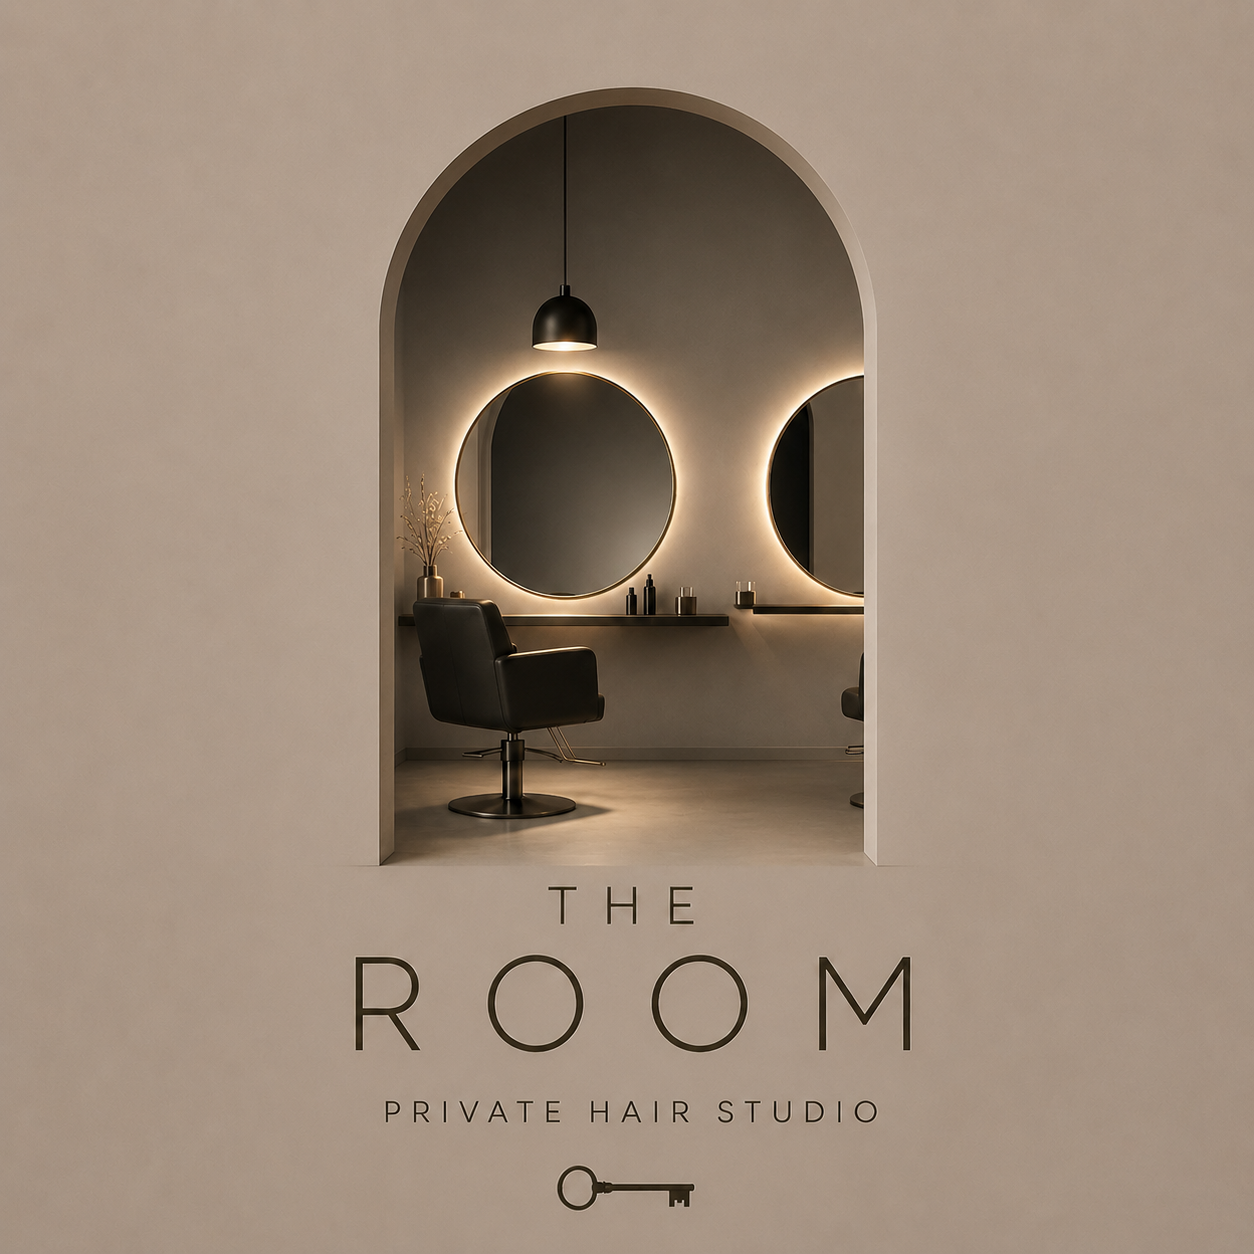
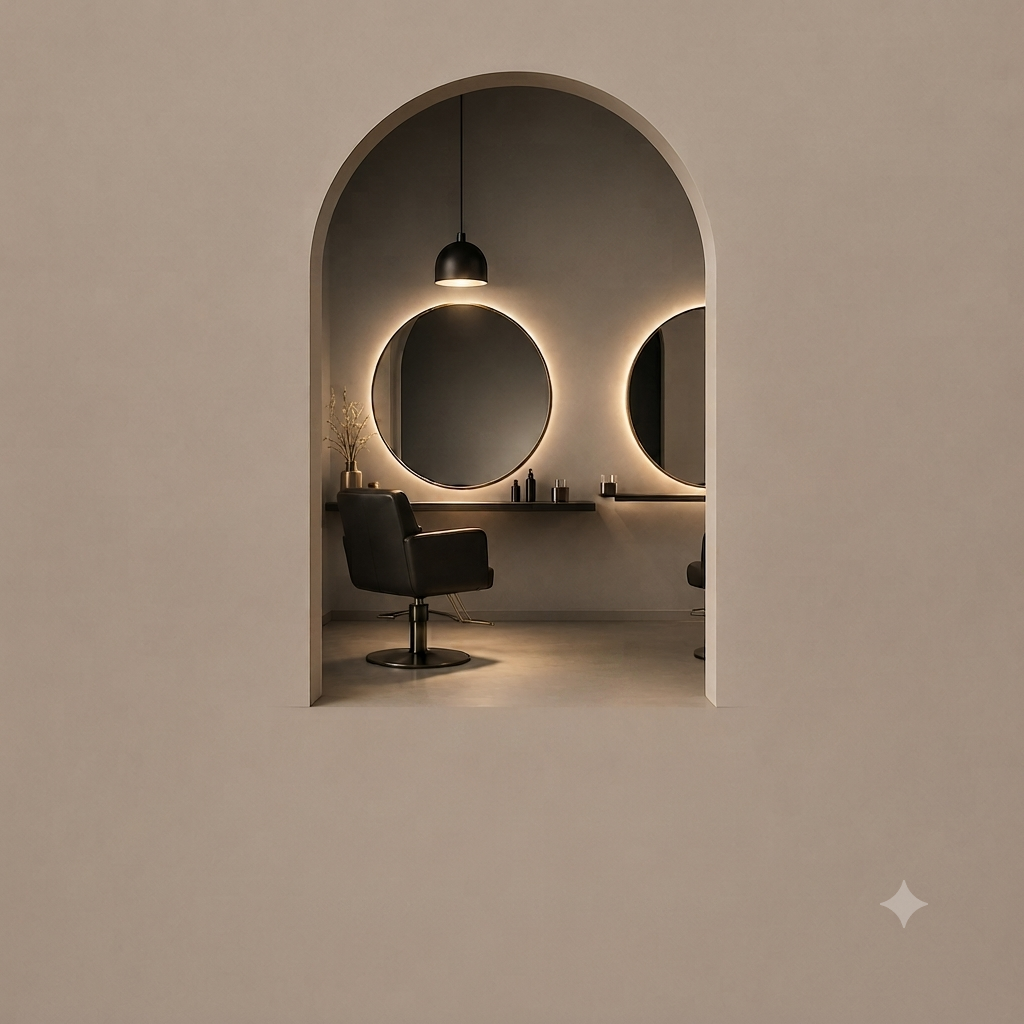
Implement booking pagination and toggle for viewing all bookings in dashboard

diff --git a/src/routes/_authenticated/dashboard.tsx b/src/routes/_authenticated/dashboard.tsx
@@ -19,6 +19,9 @@ function DashboardPage() {
 	const [bookings, setBookings] = useState<
 		{ id: string; date: string; status: string }[]
 	>([]);
+	const [showAllBookings, setShowAllBookings] = useState(false);
+	const [bookingsPage, setBookingsPage] = useState(1);
+	const bookingsPerPage = 5;
 	const [hasQuestionnaire, setHasQuestionnaire] = useState<boolean | null>(
 		null,
 	);
@@ -133,7 +136,7 @@ function DashboardPage() {
 					) : (
 						<Link
 							to="/book"
-							className="inline-flex h-14 items-center justify-center border border-foreground/80 bg-foreground px-12 text-[0.6rem] tracking-[0.6em] uppercase text-background transition hover:bg-transparent hover:text-foreground"
+							className="inline-flex h-14 items-center justify-center border-2 border-[color:var(--gold)] bg-[color:var(--gold)] px-12 text-[0.6rem] tracking-[0.6em] uppercase text-background font-semibold transition duration-300 hover:scale-105 hover:shadow-[0_8px_24px_rgba(120,110,80,0.4)]"
 						>
 							Prenota appuntamento
 						</Link>
@@ -167,34 +170,127 @@ function DashboardPage() {
 							appuntamenti
 						</span>
 					</h2>
-					<ul className="divide-y divide-[color:var(--border)]">
-						{bookings.length === 0 && (
-							<li className="py-6 text-sm text-muted-foreground">
-								Nessun appuntamento in programma. Quando sei pronta, prenota il
-								tuo momento.
-							</li>
+					<div>
+						{/* Preview dei prossimi 3 — nascosta quando il desplegable è aperto */}
+						{!showAllBookings && (
+							<ul className="divide-y divide-[color:var(--border)]">
+								{bookings.length === 0 && (
+									<li className="py-6 text-sm text-muted-foreground">
+										Nessun appuntamento in programma. Quando sei pronta, prenota
+										il tuo momento.
+									</li>
+								)}
+								{bookings.slice(0, 3).map((b) => (
+									<li
+										key={b.id}
+										className="flex items-center justify-between py-6"
+									>
+										<span className="font-serif text-2xl capitalize text-foreground">
+											{new Date(b.date).toLocaleDateString("it-IT", {
+												weekday: "long",
+												day: "numeric",
+												month: "long",
+											})}
+										</span>
+										<span className="text-sm tracking-[0.5em] uppercase text-muted-foreground">
+											{b.status === "pending"
+												? "In attesa"
+												: b.status === "confirmed"
+													? "Confermato"
+													: b.status === "cancelled"
+														? "Annullato"
+														: "Rifiutato"}
+										</span>
+									</li>
+								))}
+							</ul>
 						)}
-						{bookings.map((b) => (
-							<li key={b.id} className="flex items-center justify-between py-6">
-								<span className="font-serif text-2xl capitalize text-foreground">
-									{new Date(b.date).toLocaleDateString("it-IT", {
-										weekday: "long",
-										day: "numeric",
-										month: "long",
-									})}
-								</span>
-								<span className="text-sm tracking-[0.5em] uppercase text-muted-foreground">
-									{b.status === "pending"
-										? "In attesa"
-										: b.status === "confirmed"
-											? "Confermato"
-											: b.status === "cancelled"
-												? "Annullato"
-												: "Rifiutato"}
-								</span>
-							</li>
-						))}
-					</ul>
+
+						{/* Button "Vedi tutti" se ci sono più di 3 appuntamenti */}
+						{bookings.length > 3 && (
+							<button
+								onClick={() => {
+									setShowAllBookings(!showAllBookings);
+									setBookingsPage(1);
+								}}
+								className="mt-6 text-sm tracking-[0.08em] uppercase text-[color:var(--gold)] hover:underline"
+							>
+								{showAllBookings
+									? "Nascondi"
+									: `Vedi tutti (${bookings.length})`}
+							</button>
+						)}
+
+						{/* Lista completa con paginazione */}
+						{showAllBookings && (
+							<div className="mt-8 border-t border-[color:var(--border)] pt-6">
+								<ul className="divide-y divide-[color:var(--border)]">
+									{bookings
+										.slice(
+											(bookingsPage - 1) * bookingsPerPage,
+											bookingsPage * bookingsPerPage,
+										)
+										.map((b) => (
+											<li
+												key={b.id}
+												className="flex items-center justify-between py-6"
+											>
+												<span className="font-serif text-2xl capitalize text-foreground">
+													{new Date(b.date).toLocaleDateString("it-IT", {
+														weekday: "long",
+														day: "numeric",
+														month: "long",
+													})}
+												</span>
+												<span className="text-sm tracking-[0.5em] uppercase text-muted-foreground">
+													{b.status === "pending"
+														? "In attesa"
+														: b.status === "confirmed"
+															? "Confermato"
+															: b.status === "cancelled"
+																? "Annullato"
+																: "Rifiutato"}
+												</span>
+											</li>
+										))}
+								</ul>
+
+								{/* Paginazione */}
+								{Math.ceil(bookings.length / bookingsPerPage) > 1 && (
+									<div className="mt-6 flex items-center justify-center gap-2">
+										<button
+											onClick={() => setBookingsPage((p) => Math.max(1, p - 1))}
+											disabled={bookingsPage === 1}
+											className="px-3 py-2 text-sm tracking-[0.08em] uppercase text-[color:var(--gold)] hover:bg-[color:var(--gold)]/10 disabled:opacity-30"
+										>
+											← Precedente
+										</button>
+										<span className="text-sm text-muted-foreground">
+											{bookingsPage} /{" "}
+											{Math.ceil(bookings.length / bookingsPerPage)}
+										</span>
+										<button
+											onClick={() =>
+												setBookingsPage((p) =>
+													Math.min(
+														Math.ceil(bookings.length / bookingsPerPage),
+														p + 1,
+													),
+												)
+											}
+											disabled={
+												bookingsPage ===
+												Math.ceil(bookings.length / bookingsPerPage)
+											}
+											className="px-3 py-2 text-sm tracking-[0.08em] uppercase text-[color:var(--gold)] hover:bg-[color:var(--gold)]/10 disabled:opacity-30"
+										>
+											Successivo →
+										</button>
+									</div>
+								)}
+							</div>
+						)}
+					</div>
 				</div>
 			</section>
 